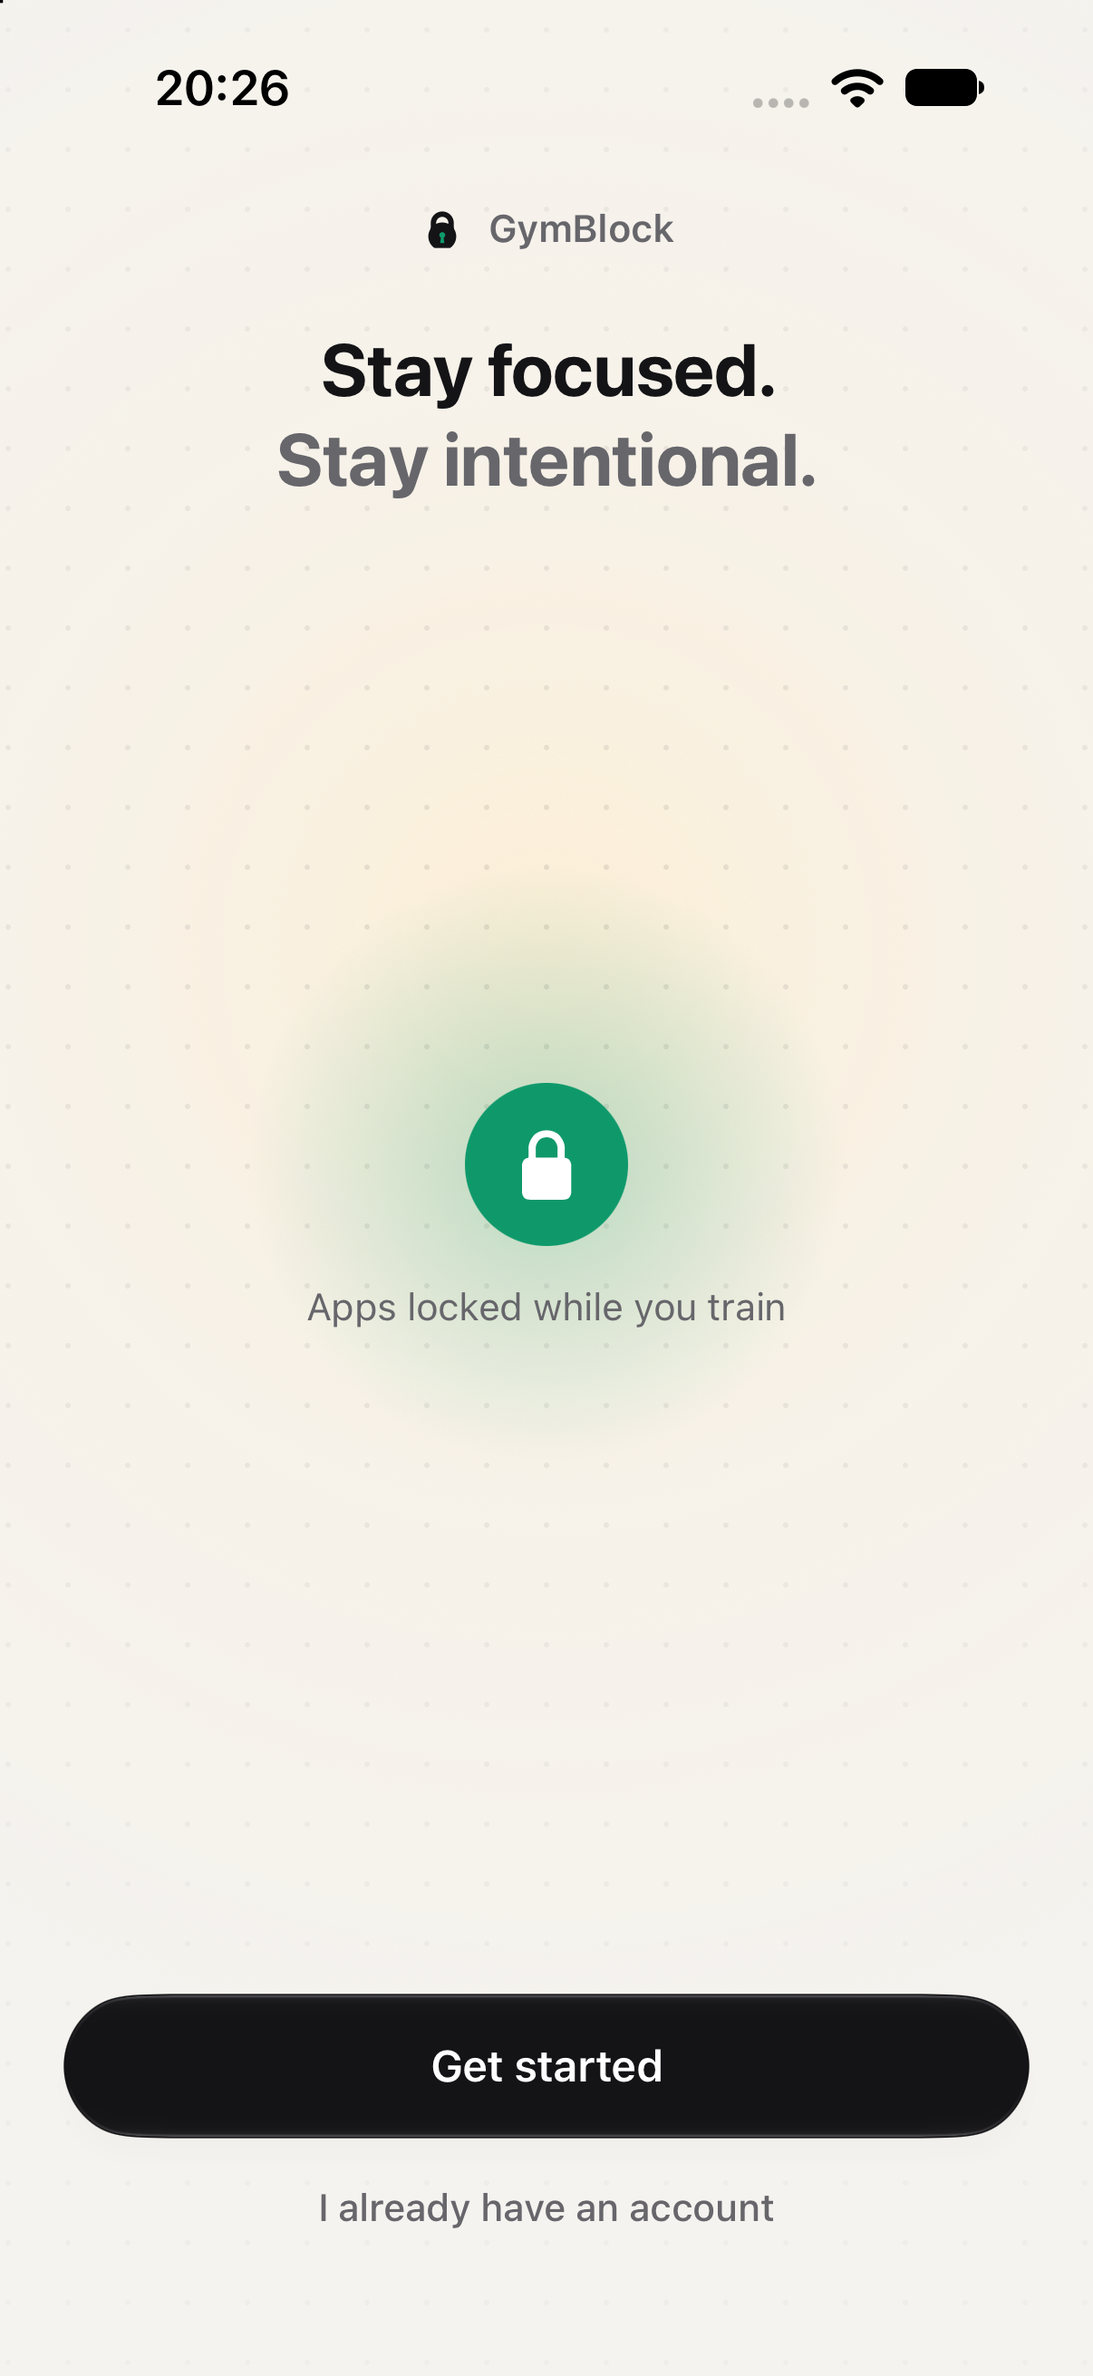
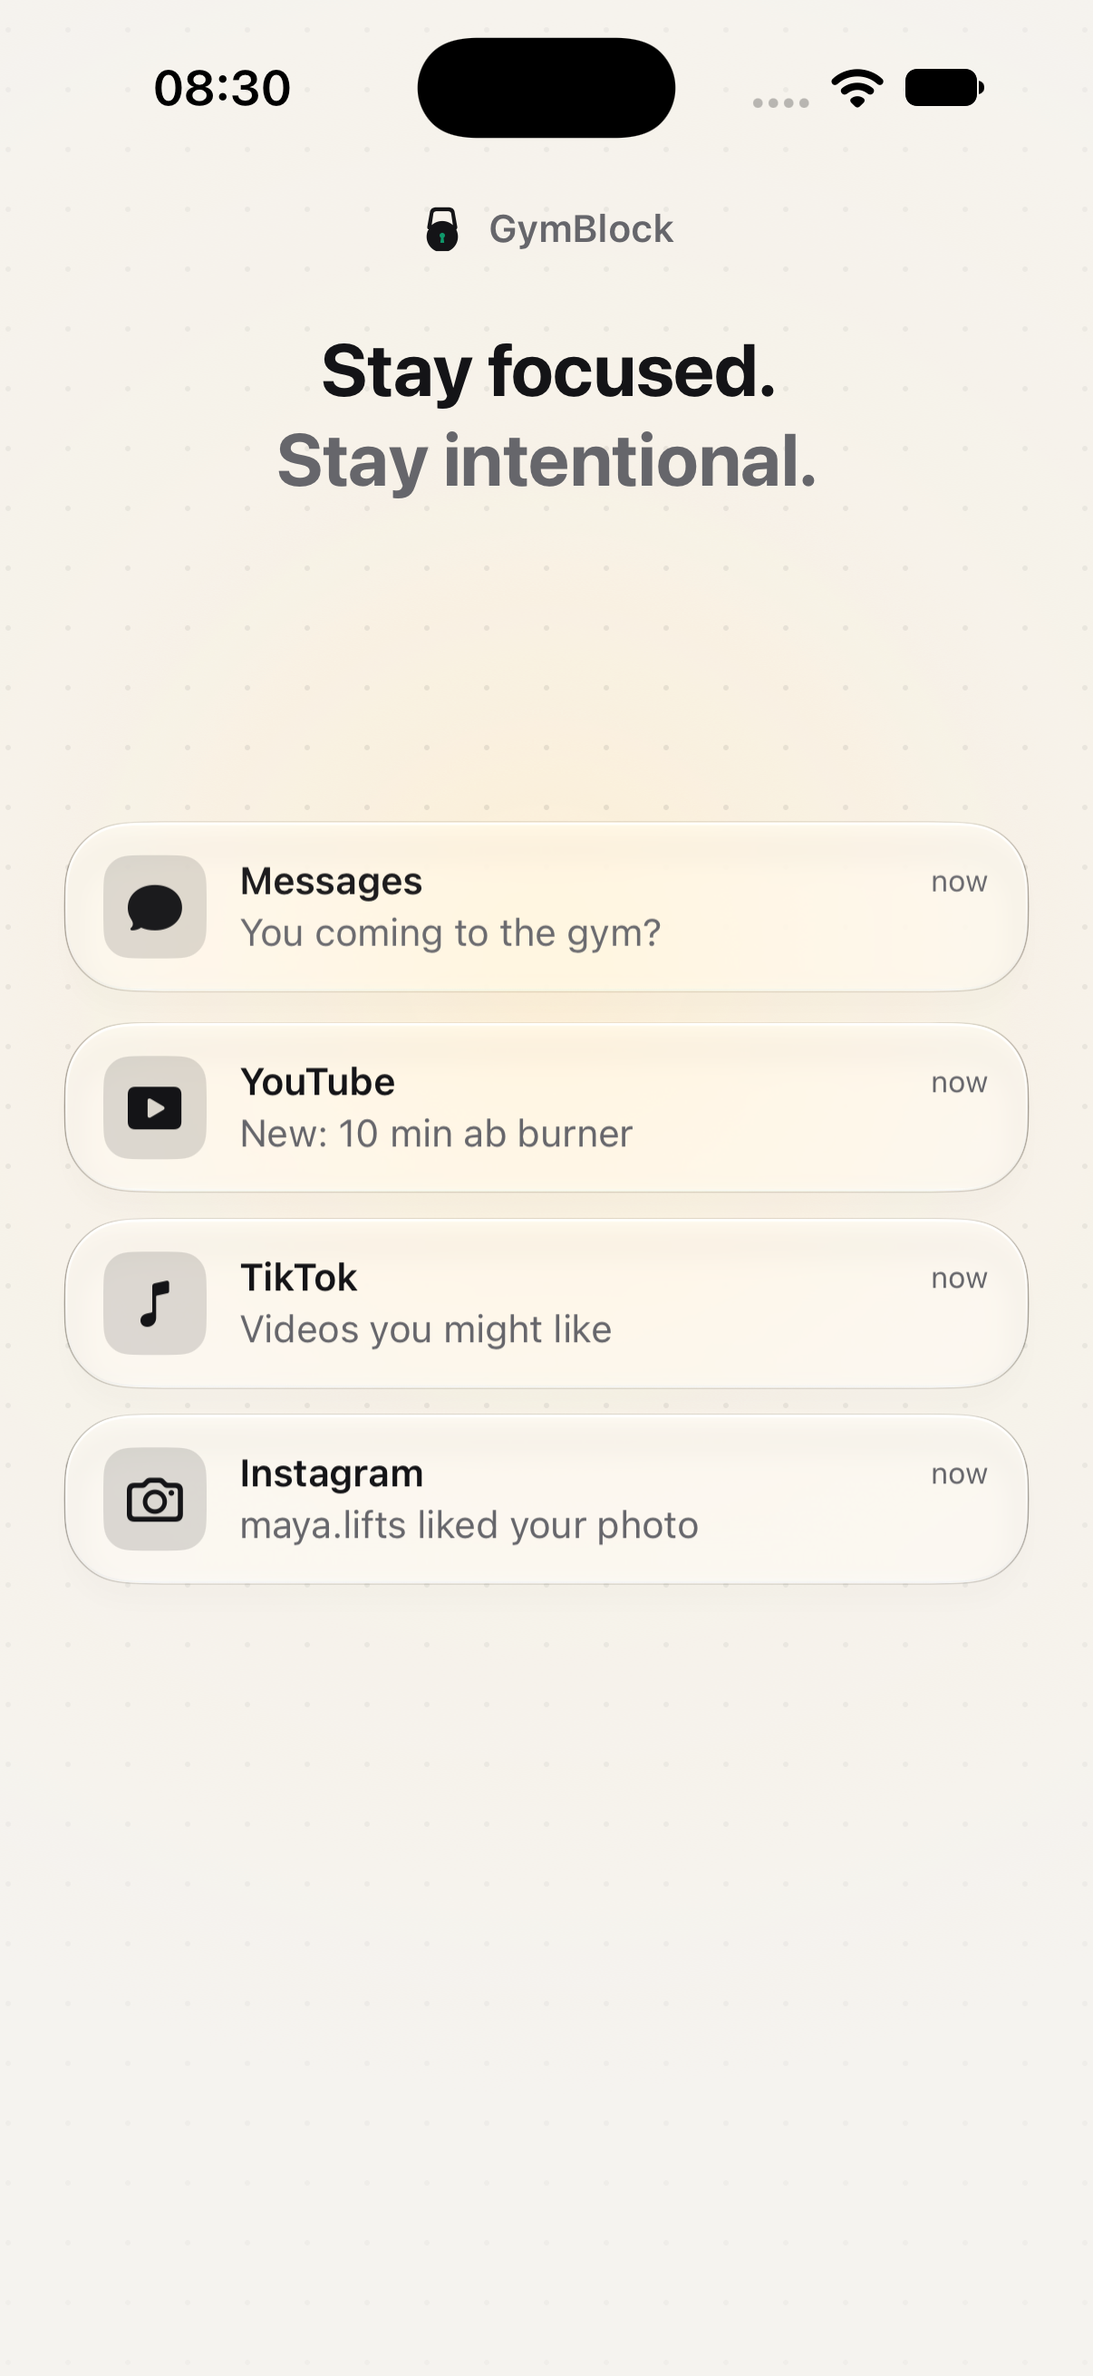
Brand mark: a cast-iron kettlebell with an emerald keyhole
Wide trapezoid handle with horns flaring into the shoulders, flat-based bell, keyhole as the only lock cue. Ink on paper for the icon and in the app. Chosen by the user from rendered options (screenshots/redesign-2026-10-08/logo-options.png).

diff --git a/GymBlock/BrandMark.swift b/GymBlock/BrandMark.swift
@@ -1,15 +1,15 @@
 import SwiftUI
 
-/// The brand mark: a kettlebell that is a padlock. The handle is the shackle, the bell is the body,
-/// and the keyhole is cut in the emerald signal, the only colour. Chosen on 8 Oct 2026 from rendered
-/// options (plate dial, stacked plates). The same geometry as the app icon in
-/// `scripts/generate-app-icon.swift`: unit square, y down, angles in degrees counter-clockwise with
-/// 90 pointing up. Keep the two in step.
+/// The brand mark: a cast-iron kettlebell with a keyhole. A wide trapezoid handle whose horns flare
+/// past the bell and curve into its shoulders, a round bell with a flat base, and the keyhole in the
+/// emerald signal, the only colour and the only lock cue. Chosen by the user on 9 Oct 2026 from
+/// rendered options. The same geometry as `scripts/generate-app-icon.swift`: unit square, y down.
+/// Keep the two in step.
 struct BrandMark: View {
   var size: CGFloat = 28
   var body: some View {
     ZStack {
-      BrandMarkShape(part: .body).fill(JourneyColor.text)
+      BrandMarkShape(part: .iron).fill(JourneyColor.text, style: FillStyle(eoFill: true))
       BrandMarkShape(part: .keyhole).fill(JourneyColor.signal)
     }
     .frame(width: size, height: size)
@@ -17,45 +17,55 @@ struct BrandMark: View {
   }
 
   enum Geometry {
-    /// The bell: a circle with a flattened base.
-    static let bell = (cx: 0.5, cy: 0.665, r: 0.285, from: 236.0, to: -56.0)
-    /// The handle: a thick loop over the top whose horns land on the bell's shoulders.
-    static let handle = (cx: 0.5, cy: 0.39, outer: 0.235, inner: 0.125, hornY: 0.53, innerY: 0.47)
+    /// Handle outline and its window: (x, y, corner radius). First and last points sit inside the bell.
+    static let handle: [(Double, Double, Double)] = [
+      (0.30, 0.66, 0), (0.19, 0.49, 0.05), (0.265, 0.07, 0.11), (0.735, 0.07, 0.11), (0.81, 0.49, 0.05), (0.70, 0.66, 0)]
+    static let window: [(Double, Double, Double)] = [
+      (0.30, 0.52, 0), (0.275, 0.49, 0.02), (0.325, 0.15, 0.055), (0.675, 0.15, 0.055), (0.725, 0.49, 0.02), (0.70, 0.52, 0)]
+    /// The bell: a circle cut flat at `base`.
+    static let bell = (cx: 0.5, cy: 0.67, r: 0.32, base: 0.965)
     /// The keyhole: a round head and a tapered slot.
-    static let head = (cx: 0.5, cy: 0.635, r: 0.06)
-    static let slot = (top: 0.655, bottom: 0.80, topHalf: 0.023, bottomHalf: 0.042)
+    static let key = (cy: 0.645, r: 0.055, length: 0.15)
   }
 }
 
 private struct BrandMarkShape: Shape {
-  enum Part { case body, keyhole }
+  enum Part { case iron, keyhole }
   let part: Part
   func path(in rect: CGRect) -> Path {
+    typealias G = BrandMark.Geometry
     let s = min(rect.width, rect.height)
     let o = CGPoint(x: rect.midX - s / 2, y: rect.midY - s / 2)
     func p(_ x: Double, _ y: Double) -> CGPoint { CGPoint(x: o.x + x * s, y: o.y + y * s) }
-    func arc(_ cx: Double, _ cy: Double, _ r: Double, _ a0: Double, _ a1: Double) -> [CGPoint] {
-      (0...96).map { i in
-        let a = (a0 + (a1 - a0) * Double(i) / 96) * .pi / 180
-        return p(cx + r * cos(a), cy - r * sin(a))
+    func outline(_ path: inout Path, _ pts: [(Double, Double, Double)]) {
+      path.move(to: p(pts[0].0, pts[0].1))
+      for i in 1..<(pts.count - 1) {
+        let corner = p(pts[i].0, pts[i].1), next = p(pts[i + 1].0, pts[i + 1].1)
+        if pts[i].2 > 0 { path.addArc(tangent1End: corner, tangent2End: next, radius: pts[i].2 * s) } else { path.addLine(to: corner) }
       }
+      path.addLine(to: p(pts[pts.count - 1].0, pts[pts.count - 1].1))
+      path.closeSubpath()
     }
     var path = Path()
-    typealias G = BrandMark.Geometry
     switch part {
-    case .body:
-      path.addLines(arc(G.bell.cx, G.bell.cy, G.bell.r, G.bell.from, G.bell.to)); path.closeSubpath()
-      let h = G.handle
-      path.addLines(arc(h.cx, h.cy, h.outer, 180, 0)
-        + [p(h.cx + h.outer, h.hornY), p(h.cx + h.inner, h.innerY)]
-        + arc(h.cx, h.cy, h.inner, 0, 180)
-        + [p(h.cx - h.inner, h.innerY), p(h.cx - h.outer, h.hornY)])
-      path.closeSubpath()
+    case .iron:
+      // Handle minus window (even-odd), then the bell as its own subpath over the window's foot.
+      outline(&path, G.handle)
+      outline(&path, G.window)
+      var bell = Path()
+      let b = G.bell, half = asin((b.base - b.cy) / b.r) * 180 / .pi   // angle of the flat base below centre
+      bell.addLines(stride(from: 180 + half, through: -half, by: -2).map { a in
+        let r = a * .pi / 180
+        return p(b.cx + b.r * cos(r), b.cy - b.r * sin(r))
+      })
+      bell.closeSubpath()
+      // The bell must not punch a hole where it overlaps the handle: fill it separately with no even-odd.
+      return path.normalized(eoFill: true).union(bell)
     case .keyhole:
-      let r = G.head.r
-      path.addEllipse(in: CGRect(origin: p(G.head.cx - r, G.head.cy - r), size: CGSize(width: 2 * r * s, height: 2 * r * s)))
-      let t = G.slot
-      path.addLines([p(0.5 - t.topHalf, t.top), p(0.5 + t.topHalf, t.top), p(0.5 + t.bottomHalf, t.bottom), p(0.5 - t.bottomHalf, t.bottom)])
+      let k = G.key
+      path.addEllipse(in: CGRect(origin: p(0.5 - k.r, k.cy - k.r), size: CGSize(width: 2 * k.r * s, height: 2 * k.r * s)))
+      path.addLines([p(0.5 - k.r * 0.4, k.cy + 0.02), p(0.5 + k.r * 0.4, k.cy + 0.02),
+                     p(0.5 + k.r * 0.72, k.cy + k.length), p(0.5 - k.r * 0.72, k.cy + k.length)])
       path.closeSubpath()
     }
     return path

diff --git a/scripts/generate-app-icon.swift b/scripts/generate-app-icon.swift
@@ -1,10 +1,8 @@
-// Renders the app icon: the brand mark (a kettlebell that is a padlock: handle = shackle, bell = body,
-// emerald keyhole) in paper white on an ink field with a faint top light. The same geometry as
-// `BrandMark` in GymBlock/BrandMark.swift (unit square, y down, degrees counter-clockwise, 90 = up).
+// Renders the app icon: the brand mark, a cast-iron kettlebell with an emerald keyhole, in ink on the
+// paper stage. The same geometry as `BrandMark` in GymBlock/BrandMark.swift (unit square, y down).
 // Run from the repository root:
-//   swift scripts/generate-app-icon.swift                 # 1024 px → the asset catalogue
-//   swift scripts/generate-app-icon.swift 180 out.png     # a preview at another size
-//   swift scripts/generate-app-icon.swift 180 out.png --mask   # with the iOS corner mask, for previews
+//   swift scripts/generate-app-icon.swift                       # 1024 px → the asset catalogue
+//   swift scripts/generate-app-icon.swift 180 out.png --mask    # a preview with the iOS corner mask
 import Foundation
 import CoreGraphics
 import ImageIO
@@ -20,33 +18,44 @@ let space = CGColorSpaceCreateDeviceRGB()
 let c = CGContext(data: nil, width: Int(side), height: Int(side), bitsPerComponent: 8, bytesPerRow: 0, space: space,
                   bitmapInfo: (mask ? CGImageAlphaInfo.premultipliedLast : CGImageAlphaInfo.noneSkipLast).rawValue)!
 func rgb(_ r: CGFloat, _ g: CGFloat, _ b: CGFloat) -> CGColor { CGColor(red: r, green: g, blue: b, alpha: 1) }
-let paper = rgb(0.961, 0.953, 0.937), signal = rgb(0.06, 0.60, 0.42)
+let paper = rgb(0.961, 0.953, 0.937), ink = rgb(0.08, 0.08, 0.09), signal = rgb(0.06, 0.60, 0.42)
 
 if mask {
   let r = side * 0.2237
   c.addPath(CGPath(roundedRect: CGRect(x: 0, y: 0, width: side, height: side), cornerWidth: r, cornerHeight: r, transform: nil)); c.clip()
 }
-// Ink field with a faint light from the top, so it reads as a surface rather than a hole.
-let field = CGGradient(colorsSpace: space, colors: [rgb(0.17, 0.17, 0.19), rgb(0.08, 0.08, 0.09)] as CFArray, locations: [0, 1])!
-c.drawLinearGradient(field, start: CGPoint(x: 0, y: side), end: CGPoint(x: 0, y: 0), options: [])
+c.setFillColor(paper); c.fill(CGRect(x: 0, y: 0, width: side, height: side))
 
-// The mark fills the central 80%, nudged up by 1% for optical centring.
-let m = side * 0.80
-let ox = (side - m) / 2, oy = (side - m) / 2 - side * 0.01
+// The mark fills the central 78%.
+let m = side * 0.78, ox = (side - m) / 2, oy = (side - m) / 2
 func p(_ x: CGFloat, _ y: CGFloat) -> CGPoint { CGPoint(x: ox + x * m, y: oy + (1 - y) * m) }
-func arc(_ cx: CGFloat, _ cy: CGFloat, _ r: CGFloat, _ a0: CGFloat, _ a1: CGFloat) -> [CGPoint] {
-  (0...240).map { i in let a = (a0 + (a1 - a0) * CGFloat(i) / 240) * .pi / 180; return p(cx + r * cos(a), cy - r * sin(a)) }
+func outline(_ pts: [(CGFloat, CGFloat, CGFloat)]) -> CGMutablePath {
+  let path = CGMutablePath()
+  path.move(to: p(pts[0].0, pts[0].1))
+  for i in 1..<(pts.count - 1) {
+    if pts[i].2 > 0 { path.addArc(tangent1End: p(pts[i].0, pts[i].1), tangent2End: p(pts[i + 1].0, pts[i + 1].1), radius: pts[i].2 * m) }
+    else { path.addLine(to: p(pts[i].0, pts[i].1)) }
+  }
+  path.addLine(to: p(pts[pts.count - 1].0, pts[pts.count - 1].1)); path.closeSubpath()
+  return path
 }
-func fill(_ color: CGColor, _ points: [CGPoint]) { c.addLines(between: points); c.closePath(); c.setFillColor(color); c.fillPath() }
-
 // Keep these numbers identical to BrandMark.Geometry.
-fill(paper, arc(0.5, 0.665, 0.285, 236, -56))                                            // bell
-fill(paper, arc(0.5, 0.39, 0.235, 180, 0) + [p(0.735, 0.53), p(0.625, 0.47)]
-            + arc(0.5, 0.39, 0.125, 0, 180) + [p(0.375, 0.47), p(0.265, 0.53)])          // handle
-let head: CGFloat = 0.06
+let handle: [(CGFloat, CGFloat, CGFloat)] = [(0.30, 0.66, 0), (0.19, 0.49, 0.05), (0.265, 0.07, 0.11), (0.735, 0.07, 0.11), (0.81, 0.49, 0.05), (0.70, 0.66, 0)]
+let window: [(CGFloat, CGFloat, CGFloat)] = [(0.30, 0.52, 0), (0.275, 0.49, 0.02), (0.325, 0.15, 0.055), (0.675, 0.15, 0.055), (0.725, 0.49, 0.02), (0.70, 0.52, 0)]
+let bell = (cx: CGFloat(0.5), cy: CGFloat(0.67), r: CGFloat(0.32), base: CGFloat(0.965))
+let key = (cy: CGFloat(0.645), r: CGFloat(0.055), length: CGFloat(0.15))
+
+let h = outline(handle); h.addPath(outline(window))
+c.addPath(h); c.setFillColor(ink); c.fillPath(using: .evenOdd)
+c.saveGState()
+c.clip(to: CGRect(x: 0, y: p(0, bell.base).y, width: side, height: side))
+c.fillEllipse(in: CGRect(x: ox + (bell.cx - bell.r) * m, y: oy + (1 - bell.cy - bell.r) * m, width: 2 * bell.r * m, height: 2 * bell.r * m))
+c.restoreGState()
 c.setFillColor(signal)
-c.fillEllipse(in: CGRect(x: ox + (0.5 - head) * m, y: oy + (1 - 0.635 - head) * m, width: 2 * head * m, height: 2 * head * m))
-fill(signal, [p(0.477, 0.655), p(0.523, 0.655), p(0.542, 0.80), p(0.458, 0.80)])          // slot
+c.fillEllipse(in: CGRect(x: ox + (0.5 - key.r) * m, y: oy + (1 - key.cy - key.r) * m, width: 2 * key.r * m, height: 2 * key.r * m))
+c.addLines(between: [p(0.5 - key.r * 0.4, key.cy + 0.02), p(0.5 + key.r * 0.4, key.cy + 0.02),
+                     p(0.5 + key.r * 0.72, key.cy + key.length), p(0.5 - key.r * 0.72, key.cy + key.length)])
+c.closePath(); c.fillPath()
 
 let image = c.makeImage()!
 let destination = CGImageDestinationCreateWithURL(URL(fileURLWithPath: output) as CFURL, UTType.png.identifier as CFString, 1, nil)!

diff --git a/DESIGN.md b/DESIGN.md
@@ -16,7 +16,7 @@ Full spec: docs/ONBOARDING-V5-PLAN.md. Twenty pages (eighteen for Rarely), one q
 
 **Colour.** One *paper* stage on every page: warm off-white with a wide peach wash and a tighter core behind the stage area, ink dots that strengthen towards it (drawn once per screen size, `DotGrid`; every token lives in `JourneyTheme.paper`). No page uses a coloured background. Three surface tones: the stage, raised white glass (a faint top-lit rim on every card and control, `JourneyRim`), and the one ink action. Emerald (#0F9A6B) is the signal — ≤2% of a screen, always the one thing to look at: the phone arc, a finished rest, today, a gain, the check on a chosen answer. A chosen answer rises (brighter glass, ink edge) and is never a coloured block. Tracks, hairlines and quiet fills are ink at low opacity (`JourneyColor.ink(_:)`). Captions meet WCAG AA (≥ 4.5:1).
 
-**Brand.** The mark is a kettlebell that is a padlock: the handle is the shackle, the bell is the body, and the keyhole is cut in the emerald signal, the only colour (`BrandMark`, the same geometry as `scripts/generate-app-icon.swift`). In the app it is ink on paper: the wordmark on the welcome page and the badge on the account and offer cards. The app icon is the mark in paper white on an ink field with a faint top light, strongest on any wallpaper. Chosen on 8 Oct 2026 from rendered options (a plate-dial combination lock, a stacked-plates lock) shown on ink, paper and emerald fields and on a Home Screen; two earlier marks were rejected. **Red.** One warm colour, `JourneyColor.danger` (#DB4036), exists for time lost to the phone: the phone arc on the reveal ring and the dots on the hours-a-year page; training is the emerald signal. Nothing else is red. The launch screen is the stage colour and the first page rises into it: no white cover, no flash.
+**Brand.** The mark is a cast-iron kettlebell with a keyhole: a wide trapezoid handle whose horns flare past the bell and curve into its shoulders, a round bell with a flat base, and the keyhole in the emerald signal, the only colour and the only lock cue (`BrandMark`, the same geometry as `scripts/generate-app-icon.swift`). It is ink on paper everywhere: the app icon (the mark at 78% on the plain paper field), the wordmark on the welcome page, and the badge on the account and offer cards. Chosen by the user on 9 Oct 2026 from rendered options; earlier marks (barbell shackle, barbell keyhole, a padlock-shaped "kettlebell") were rejected for reading as a plain lock. **Red.** One warm colour, `JourneyColor.danger` (#DB4036), exists for time lost to the phone: the phone arc on the reveal ring and the dots on the hours-a-year page; training is the emerald signal. Nothing else is red. The launch screen is the stage colour and the first page rises into it: no white cover, no flash.
 
 **Type and scale.** Headlines are `.title` bold with slightly tight tracking, centred in a two-line box so a one-line headline never sits above a hole. Section labels (`Eyebrow`) are the subheadline style in sentence case, secondary colour; hero numbers are `.largeTitle` bold; no tracked capitals, no fixed-size display fonts; numbers are monospaced. Everything is compact: 50-pt primary button, 52-pt answer rows, 18–20-pt card radii, 16-pt card padding, a 160–220-pt ring, 26-pt stepper digits, 44-pt hero numbers.
 

diff --git a/docs/ONBOARDING-V5-PLAN.md b/docs/ONBOARDING-V5-PLAN.md
@@ -4,7 +4,7 @@
 
 Rev. 8 also removed the templated styling of an interim pass (tracked uppercase labels, monogram app tiles, a tagline under Get started, a numbered explainer card on Home, fixed-size hero fonts) in favour of Apple text styles and sentence case, and added directional motion: pages slide 18 pt in the direction of travel as they fade, and Home's cards settle in one after another.
 
-Rev. 8 changes, page by page: the welcome page carries the wordmark (the kettlebell-padlock mark, also the app icon) and an "I already have an account" link and a one-line promise under Get started; every headline is `.largeTitle` bold and centred in its two-line box; a chosen answer rises (brighter glass, white edge) and the red check is the only red on the page; the blocking tiles are monograms on glass with a live "3 apps blocked from Start to Finish." line; the pledges sit on one glass card; the offer is a membership card with the mark, three benefits with one-line details and the price row when a product exists. Captions: "Stays on this iPhone. Never shared.", "Illustrative, not a measurement.", "An example log, not your data.", "Blocking is a preview in this build: nothing is enforced yet.", "Hold the button until it fills."
+Rev. 8 changes, page by page: the welcome page carries the wordmark (the kettlebell-with-keyhole mark, also the app icon) and an "I already have an account" link and a one-line promise under Get started; every headline is `.largeTitle` bold and centred in its two-line box; a chosen answer rises (brighter glass, white edge) and the red check is the only red on the page; the blocking tiles are monograms on glass with a live "3 apps blocked from Start to Finish." line; the pledges sit on one glass card; the offer is a membership card with the mark, three benefits with one-line details and the price row when a product exists. Captions: "Stays on this iPhone. Never shared.", "Illustrative, not a measurement.", "An example log, not your data.", "Blocking is a preview in this build: nothing is enforced yet.", "Hold the button until it fills."
 
 The person should leave thinking: *“I lose a lot of my gym time to my phone. GymBlock blocks it, times my rests, and shows me I'm improving.”*
 

diff --git a/AGENTS.md b/AGENTS.md
@@ -7,7 +7,7 @@
 - Keep splits optional, preserve their IDs on edits and compare progress only within the same split and exercise, with rep count or load held constant.
 - Demo loading must be explicit, idempotent and never overwrite existing local work. Keep the sample-history marker visible on Home.
 - Blocking is a prototype representation. Keep honest visible labels; do not claim real enforcement. Billing is real only once the RevenueCat and App Store Connect steps in `supabase/README.md` are done.
-- The brand mark is a kettlebell that is a padlock (handle = shackle, emerald keyhole); the icon is that mark in paper white on ink (`BrandMark.swift`, `scripts/generate-app-icon.swift`); the only warm colour is `JourneyColor.danger` for time on the phone. Legal documents live in `docs/legal/` and are published at https://www.orecci.com/gymblock/ from the `orecci` repo.
+- The brand mark is a cast-iron kettlebell with an emerald keyhole (wide trapezoid handle, flat-based bell; it must read as a kettlebell first); the icon is that mark in ink on paper (`BrandMark.swift`, `scripts/generate-app-icon.swift`); the only warm colour is `JourneyColor.danger` for time on the phone. Legal documents live in `docs/legal/` and are published at https://www.orecci.com/gymblock/ from the `orecci` repo.
 - Read DESIGN.md before visual edits. Keep README.md and VALIDATION.md current for material changes.
 - Prove visual changes with actual simulator screenshots or Device Hub. Build/install/launch alone is insufficient.
 - Preserve read-only boundaries around SleepBlock and Speaking Coach reference sources.
